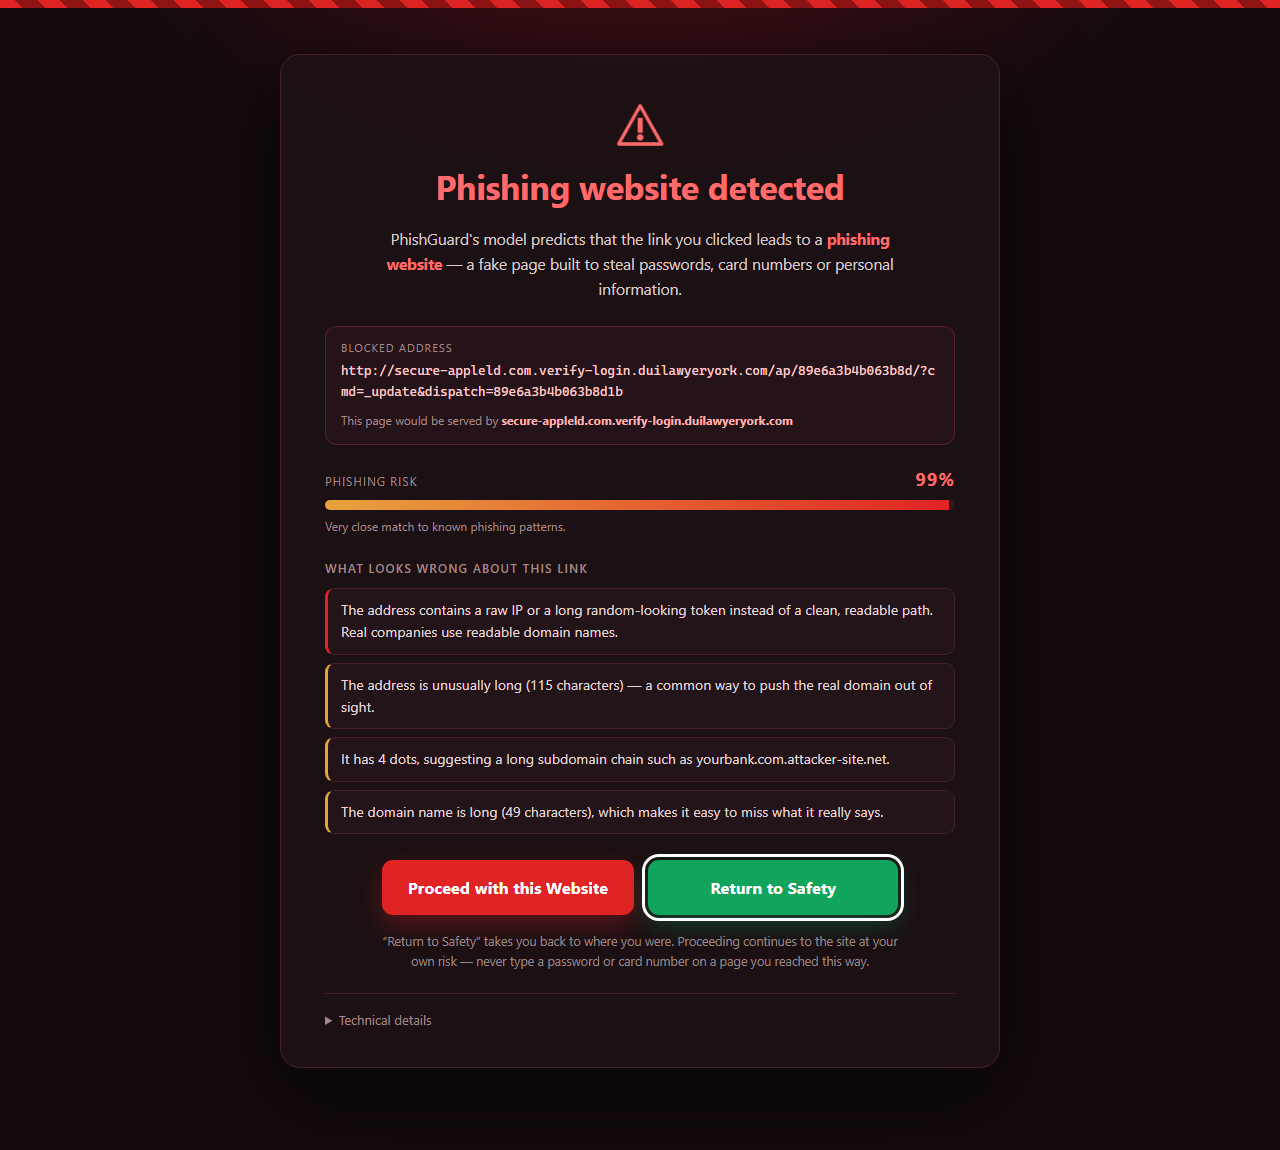
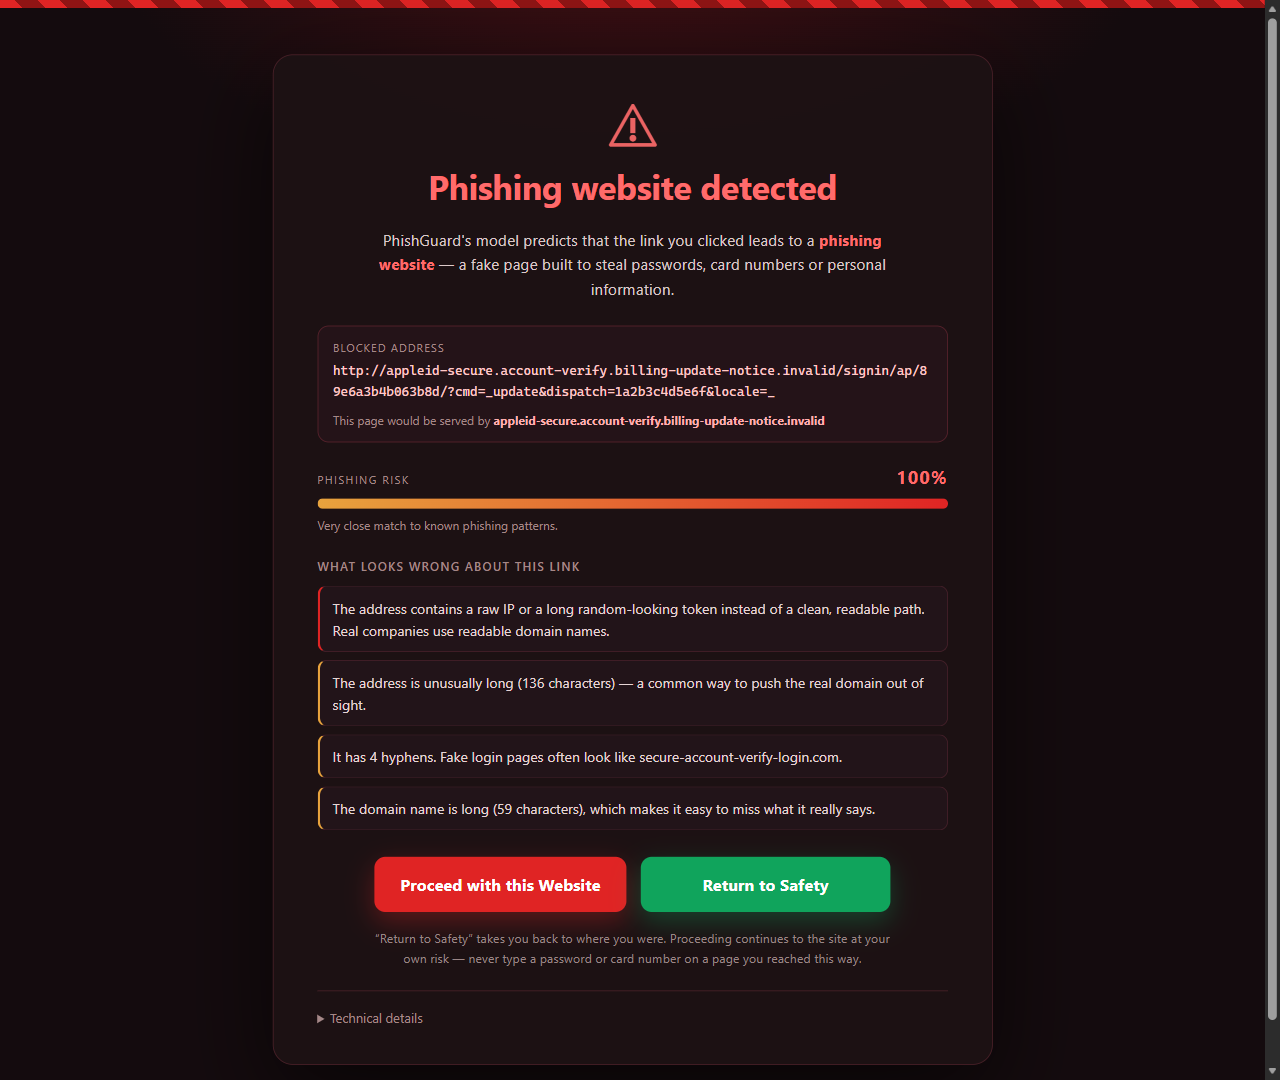
Verify the extension end to end in a live browser
Replaces the mocked warning-page screenshot with a real capture from the
running extension, and records what was exercised over the DevTools protocol:
service worker boot and model load, link marking, click interception,
navigation interception, both warning buttons, and bypass persistence.

Also notes that recent Chrome builds reject --load-extension from the command
line, so the automated pass runs under Edge; loading unpacked by hand is
unaffected in both browsers.

Changed region(s): [[0.25, 0.0917, 0.75, 0.9472], [0.9688, 0.0, 1.0, 1.0]]

diff --git a/README.md b/README.md
@@ -296,6 +296,28 @@ python run.py test
 
 All 53 checks currently pass.
 
+### Verified in a real browser
+
+The extension was also driven end to end in a live Chromium browser over the
+DevTools protocol, with these results:
+
+| Check | Result |
+| --- | --- |
+| Service worker boots and loads `model.json` | yes, 0 errors |
+| Scores a known phishing URL | 0.9943, flagged |
+| Marks risky links on a page, leaves safe ones alone | 2 of 4 links marked, correctly |
+| Clicking a flagged link shows the modal and cancels navigation | yes, URL unchanged |
+| Navigating to a phishing URL is intercepted | lands on the warning page |
+| Warning page renders both buttons, green focused by default | yes |
+| **Return to Safety** returns to the previous page | yes |
+| **Proceed with this Website** continues and records the override | yes |
+| The bypass persists, so the same URL is not blocked twice | yes |
+
+Note: recent Google Chrome builds refuse `--load-extension` from the command
+line, so that automated pass runs under Edge. Loading the folder by hand through
+`chrome://extensions` → Developer mode → Load unpacked is unaffected and works
+in both browsers.
+
 ---
 
 ## Project layout
